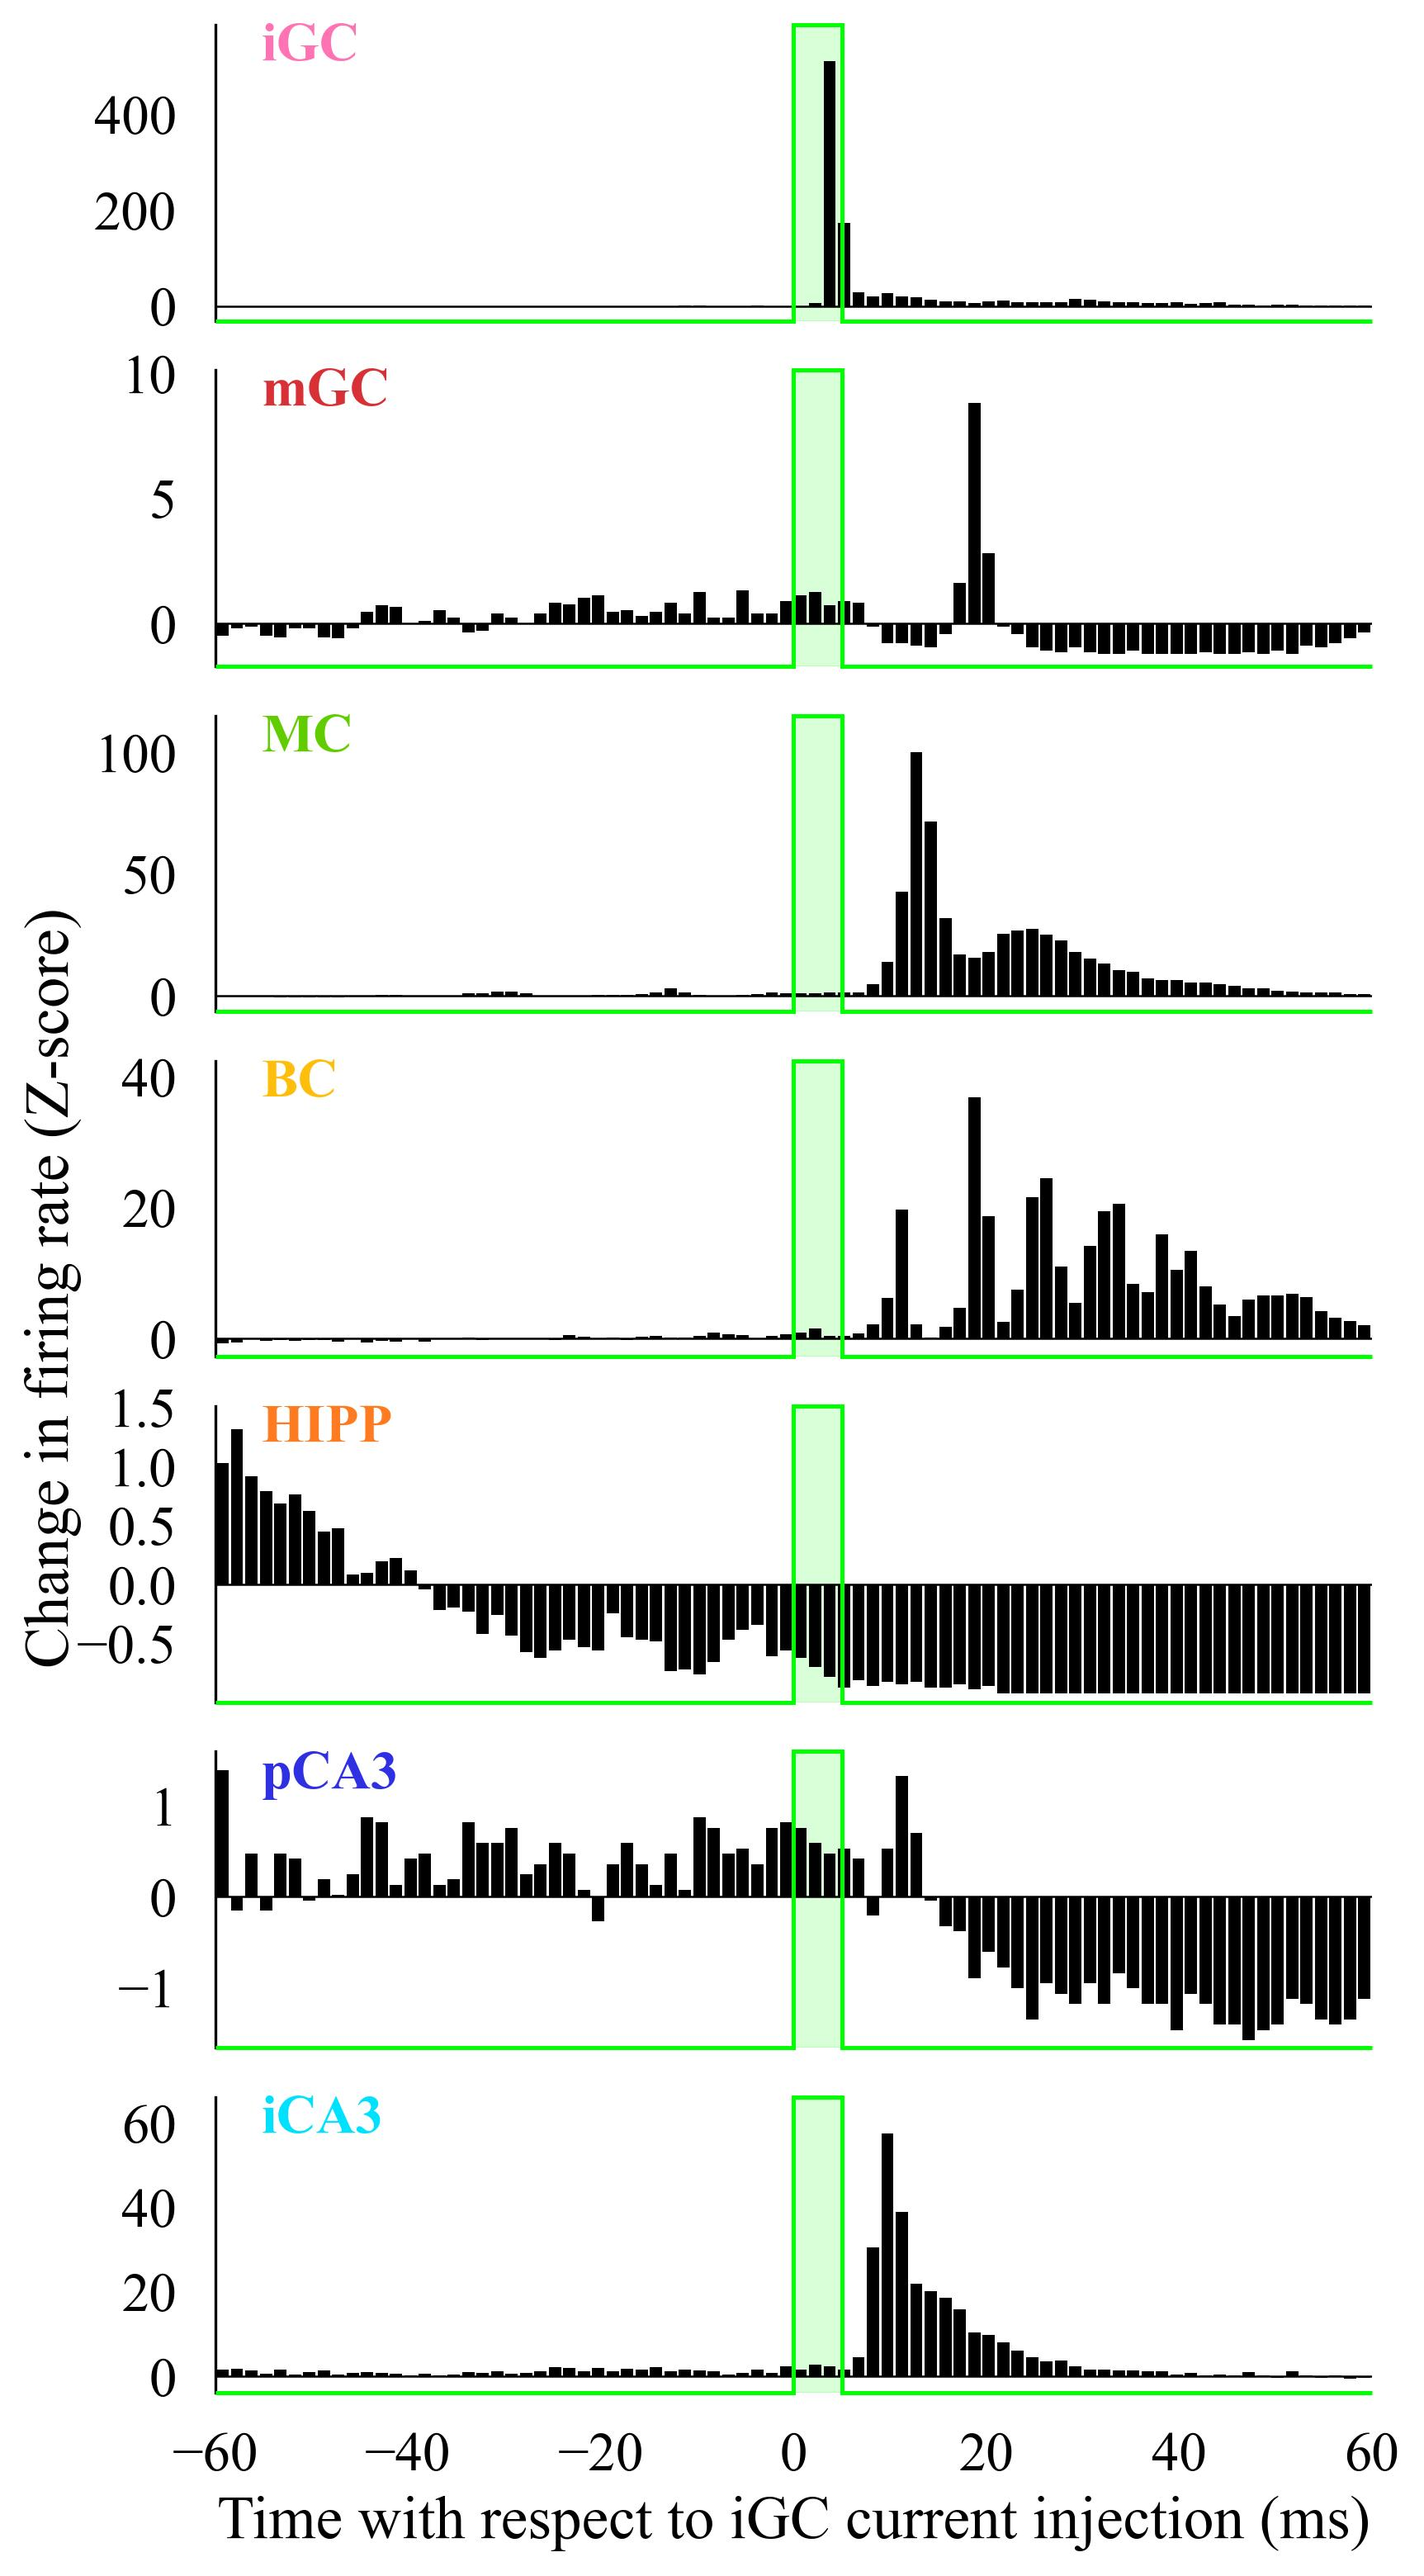
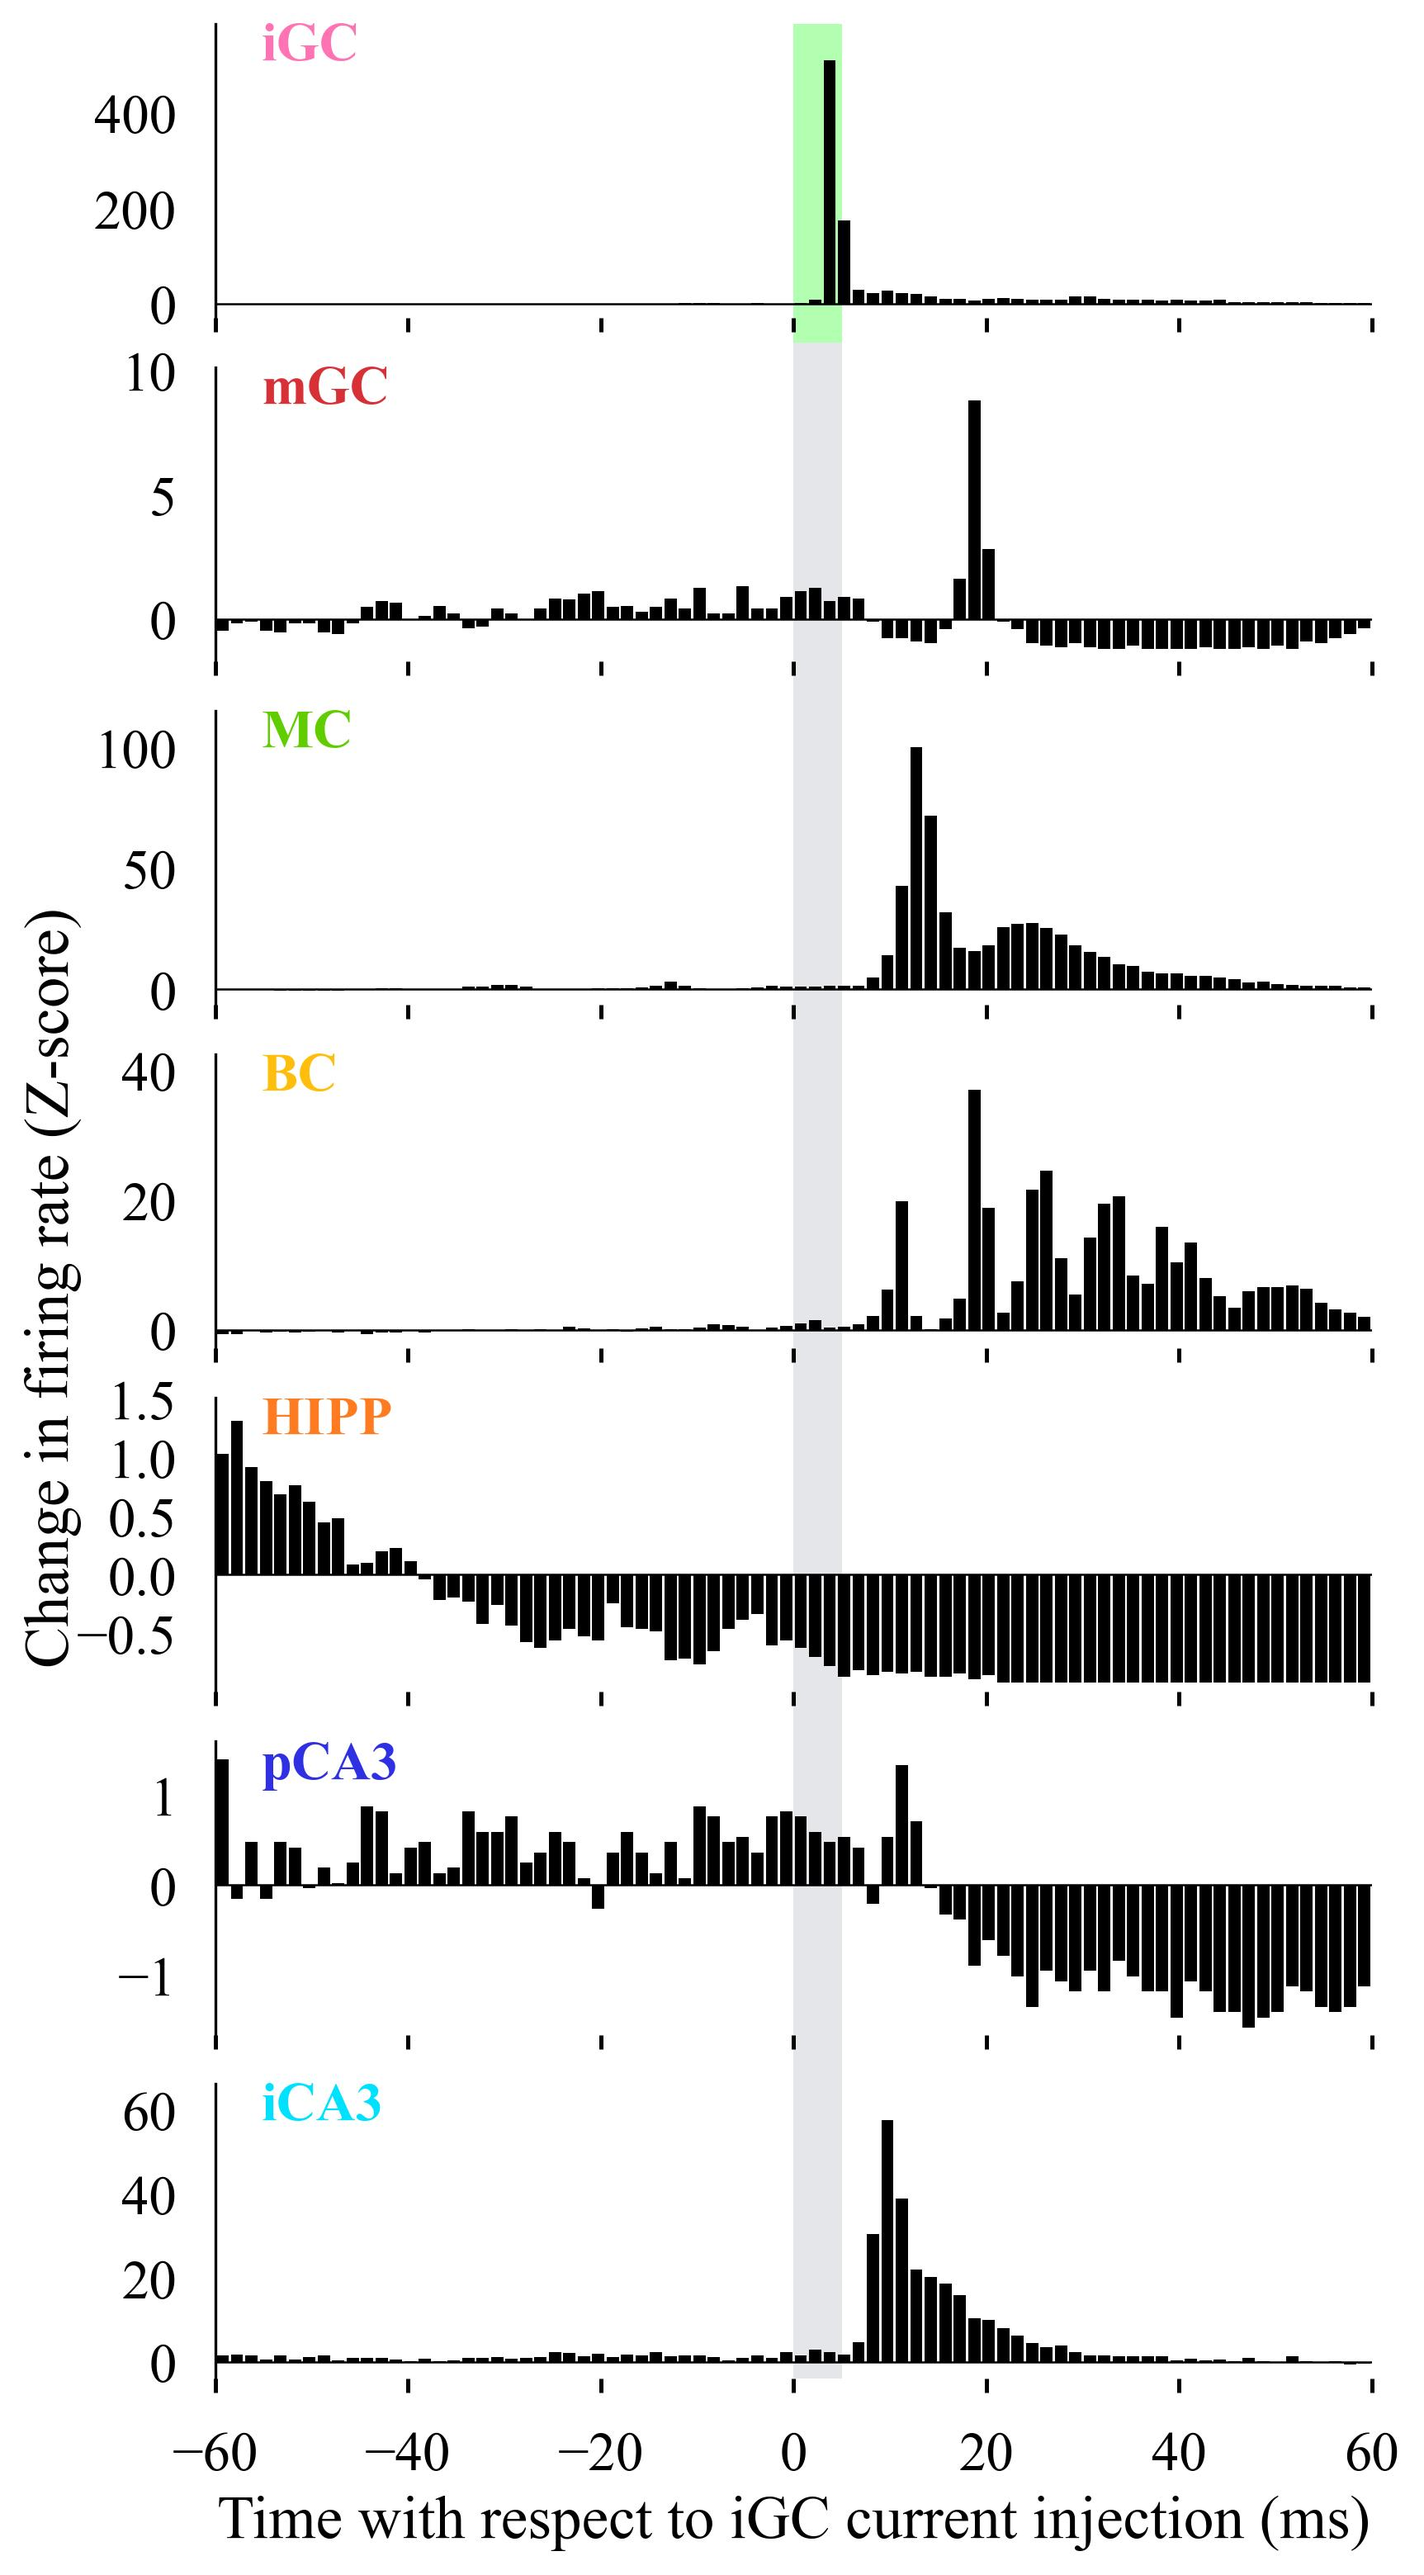
psth style

diff --git a/scripts/data/optogenetics_psth.py b/scripts/data/optogenetics_psth.py
@@ -10,7 +10,7 @@ from glob import glob
 import h5py
 
 NEG = False
-ALL_LEVELS = False  # Joins all the runs into one plot
+ALL_LEVELS = True  # Joins all the runs into one plot
 
 # RUN_NAME = 'final_opto_negative' if NEG else 'final_opto_positive'
 # RUN_NAME = 'FINAL_opto_june_positive'
@@ -98,14 +98,28 @@ def compute_psth_zscore(trials, n_neurons, onset_abs):
     return bin_centers, (psth_rate - bl_mean) / bl_std
 
 
-def draw_stimulus_indicator(ax, ymax, ymin):
-    y_flat = ymin - (abs(ymax) * 0.05)
+def draw_stimulus_band(fig, axes, active):
+    fig.canvas.draw()  # finalise axes positions/transforms
+    positions = [ax.get_position() for ax in axes]
+    n = len(axes)
 
-    xs = [-PRE_MS, 0,      0,    DURATION_MS, DURATION_MS, POST_MS]
-    ys = [y_flat,  y_flat, ymax,  ymax,         y_flat,      y_flat]
-    ax.plot(xs, ys, color=opto_color, lw=1.2, solid_joinstyle='miter', solid_capstyle='butt', clip_on=False, zorder=5)
-    ax.axvspan(0, DURATION_MS, color=opto_color, alpha=0.15, zorder=0)
-    return abs(y_flat)
+    for i, (ax, (neuron, _label)) in enumerate(zip(axes, active)):
+        pos = positions[i]
+        top_fig    = pos.y1 if i == 0     else (positions[i - 1].y0 + pos.y1) / 2.0
+        bottom_fig = pos.y0 if i == n - 1 else (pos.y0 + positions[i + 1].y1) / 2.0
+
+        ymax_frac = (top_fig    - pos.y0) / pos.height
+        ymin_frac = (bottom_fig - pos.y0) / pos.height
+
+        is_igc = neuron == 'igc'
+        span = ax.axvspan(
+            0, DURATION_MS,
+            ymin=ymin_frac, ymax=ymax_frac,
+            color=opto_color if is_igc else '#cfd3d8',
+            alpha=0.30 if is_igc else 0.55,
+            lw=0, zorder=0,
+        )
+        span.set_clip_on(False)
 
 
 def main(group_file_path):
@@ -136,9 +150,9 @@ def main(group_file_path):
 
         zmax = max(float(zscore.max()) * 1.15, 1.0)
         zmin = float(zscore.min())
-        indicator_h = draw_stimulus_indicator(ax, zmax, zmin)
-        if not math.isnan(indicator_h) and not math.isnan(zmax):
-            ax.set_ylim(-indicator_h, zmax)
+        ybottom = zmin - abs(zmax) * 0.05
+        if not math.isnan(ybottom) and not math.isnan(zmax):
+            ax.set_ylim(ybottom, zmax)
 
         ax.yaxis.set_major_locator(plt.MaxNLocator(nbins=2, min_n_ticks=3, steps=[1, 2, 5, 10], integer=True))
 
@@ -148,7 +162,8 @@ def main(group_file_path):
         ax.spines['top'].set_visible(False)
         ax.spines['right'].set_visible(False)
         ax.spines['bottom'].set_visible(False)
-        ax.tick_params(axis='both', length=0)
+        ax.tick_params(axis='y', length=0)
+        ax.tick_params(axis='x', length=4, width=1.2)
 
     axes[-1].set_xlabel('Time with respect to iGC current injection (ms)')
     axes[-1].set_xlim(-PRE_MS, POST_MS)
@@ -156,6 +171,8 @@ def main(group_file_path):
     fig.text(0.05, 0.5, 'Change in firing rate (Z-score)', va='center', ha='left', rotation='vertical', fontsize=18)
 
     plt.tight_layout(rect=[0.06, 0, 1, 1], h_pad=0.4)
+
+    draw_stimulus_band(fig, axes, active)
 
     sign = 'neg' if NEG else 'pos'
     p = re.compile(r".*(\d.\d)")
